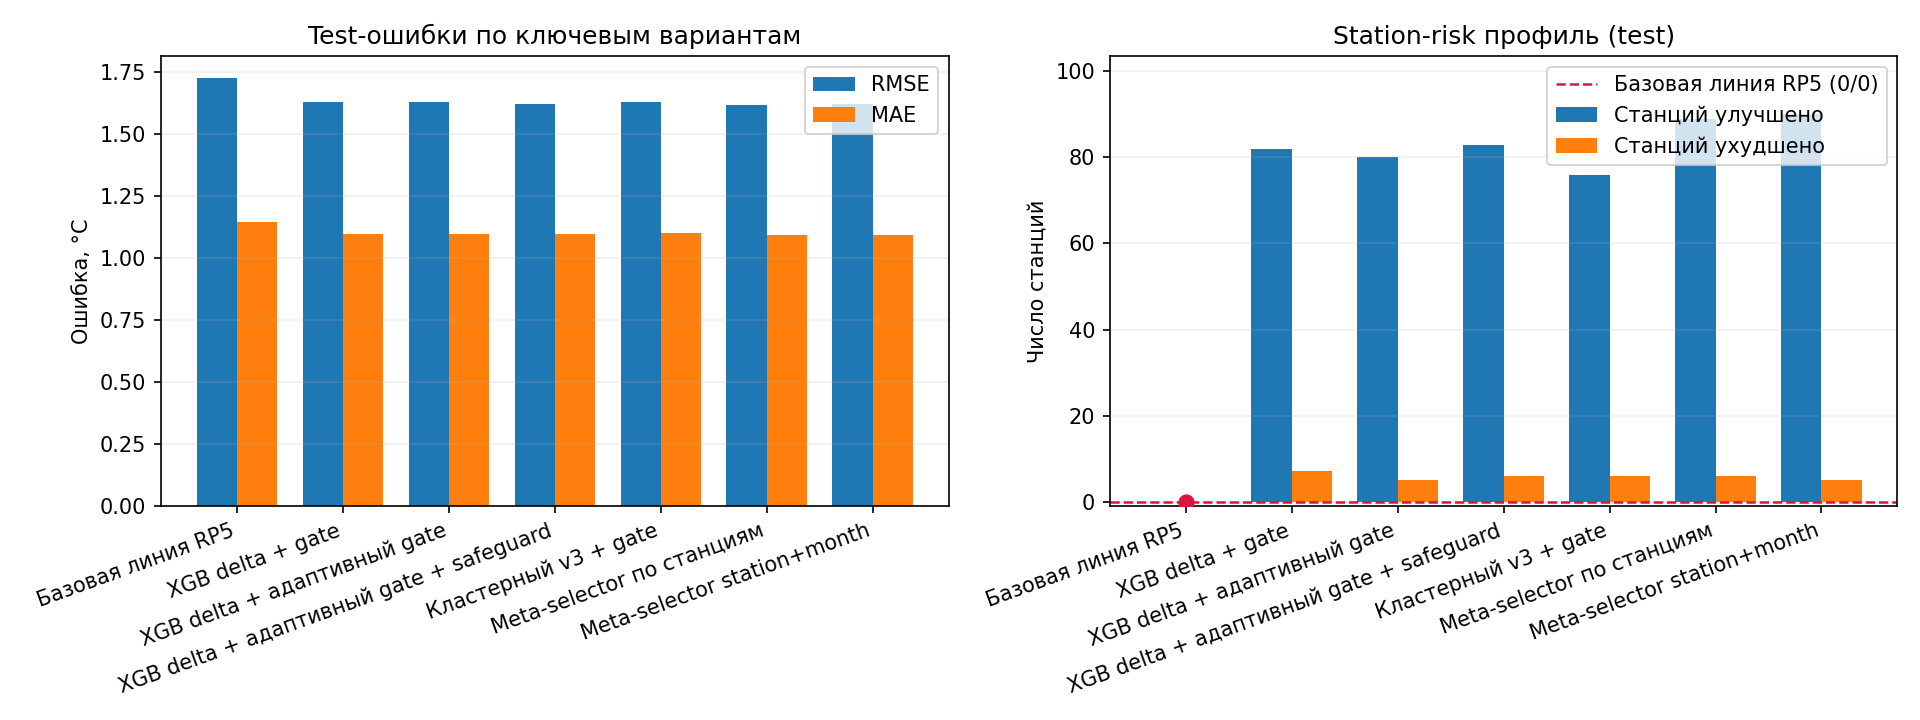
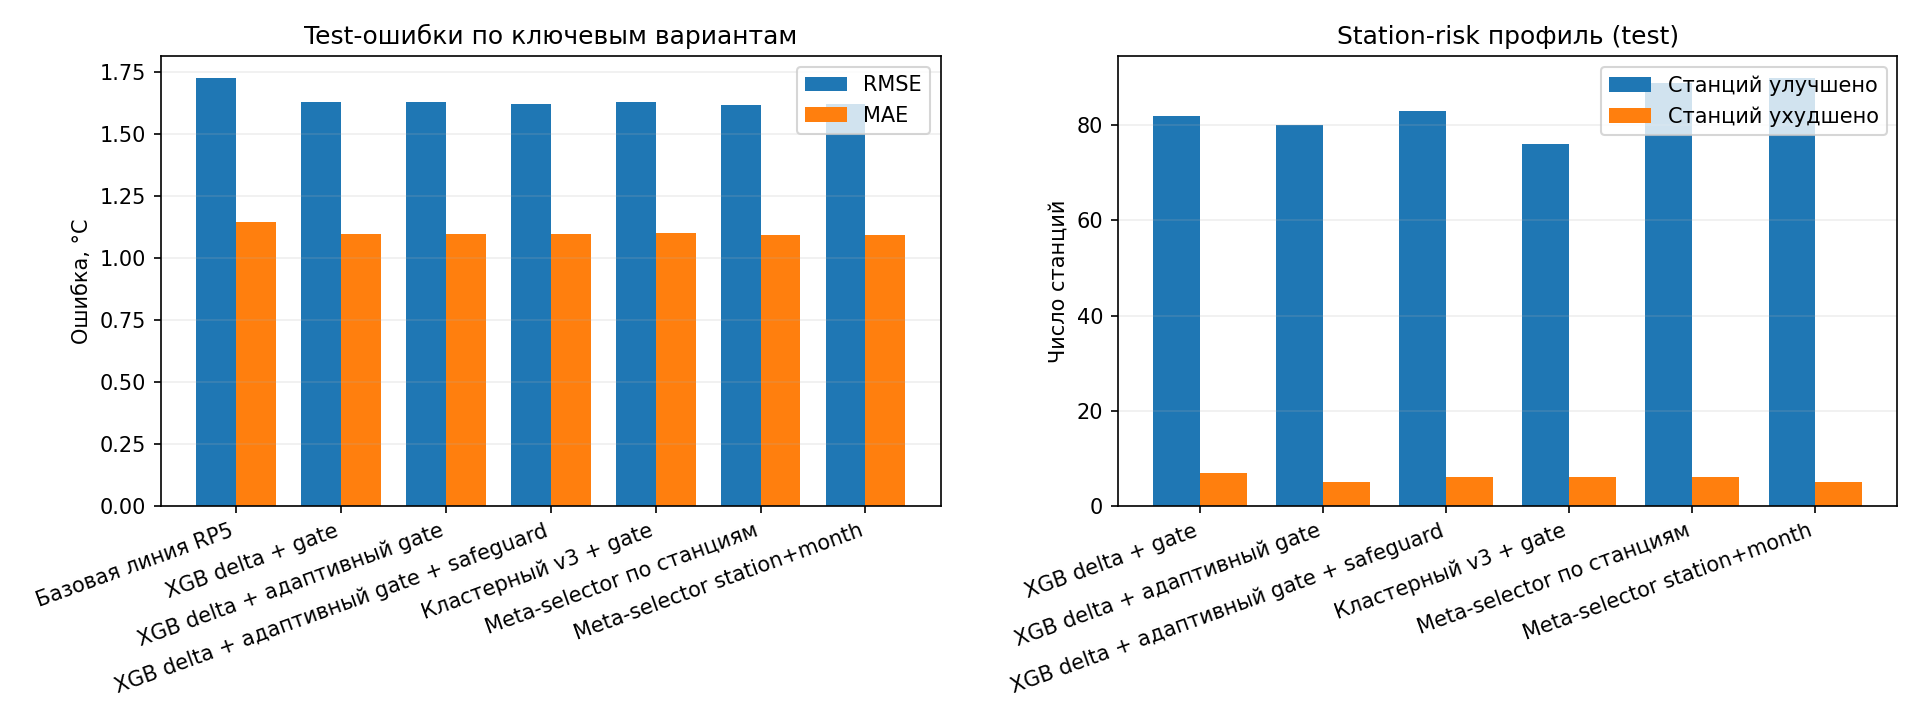
Show baseline only on left subplot for Fig.14/Fig.16

diff --git a/transfer/plot_bridge_v3_focus_ru.py b/transfer/plot_bridge_v3_focus_ru.py
@@ -47,8 +47,9 @@ def main() -> None:
     test["variant"] = pd.Categorical(test["variant"], categories=ordered_variants, ordered=True)
     test = test.sort_values("variant")
 
-    risk = risk[risk["variant"].isin(ordered_variants)].copy()
-    risk = risk.set_index("variant").reindex(ordered_variants).reset_index()
+    risk_variants = [v for v in ordered_variants if v != "baseline"]
+    risk = risk[risk["variant"].isin(risk_variants)].copy()
+    risk = risk.set_index("variant").reindex(risk_variants).reset_index()
     for col in ["improved_station_count", "worsened_station_count"]:
         if col not in risk.columns:
             risk[col] = 0
@@ -59,6 +60,7 @@ def main() -> None:
     )
 
     x = np.arange(len(ordered_variants))
+    x_risk = np.arange(len(risk_variants))
     width = 0.38
     fig, axes = plt.subplots(1, 2, figsize=(12.8, 4.8))
 
@@ -71,26 +73,10 @@ def main() -> None:
     axes[0].grid(axis="y", alpha=0.2)
     axes[0].legend()
 
-    axes[1].bar(x - width / 2, risk["improved_station_count"].to_numpy(), width=width, label="Станций улучшено")
-    axes[1].bar(x + width / 2, risk["worsened_station_count"].to_numpy(), width=width, label="Станций ухудшено")
-
-    # Baseline (RP5) имеет риск-профиль 0/0 и не виден столбцами.
-    # Добавляем явную опорную линию и маркер, чтобы baseline был читаем на графике.
-    if "baseline" in ordered_variants:
-        base_idx = ordered_variants.index("baseline")
-        ymax = int(
-            max(
-                1,
-                risk["improved_station_count"].max(),
-                risk["worsened_station_count"].max(),
-            )
-        )
-        axes[1].set_ylim(-1, ymax * 1.15)
-        axes[1].axhline(0, color="crimson", linestyle="--", linewidth=1.2, label="Базовая линия RP5 (0/0)")
-        axes[1].scatter([base_idx], [0], color="crimson", s=46, zorder=5)
-
-    axes[1].set_xticks(x)
-    axes[1].set_xticklabels([LABELS[v] for v in ordered_variants], rotation=20, ha="right")
+    axes[1].bar(x_risk - width / 2, risk["improved_station_count"].to_numpy(), width=width, label="Станций улучшено")
+    axes[1].bar(x_risk + width / 2, risk["worsened_station_count"].to_numpy(), width=width, label="Станций ухудшено")
+    axes[1].set_xticks(x_risk)
+    axes[1].set_xticklabels([LABELS[v] for v in risk_variants], rotation=20, ha="right")
     axes[1].set_ylabel("Число станций")
     axes[1].set_title("Station-risk профиль (test)")
     axes[1].grid(axis="y", alpha=0.2)
